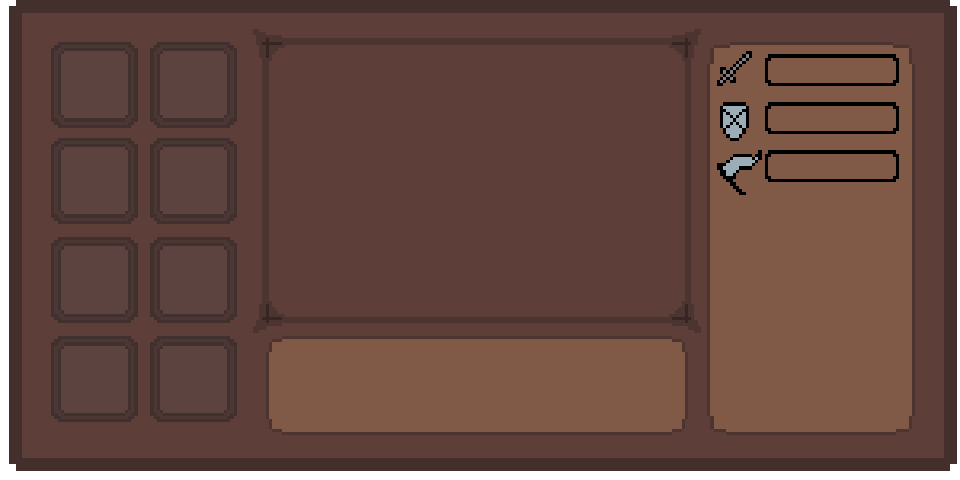
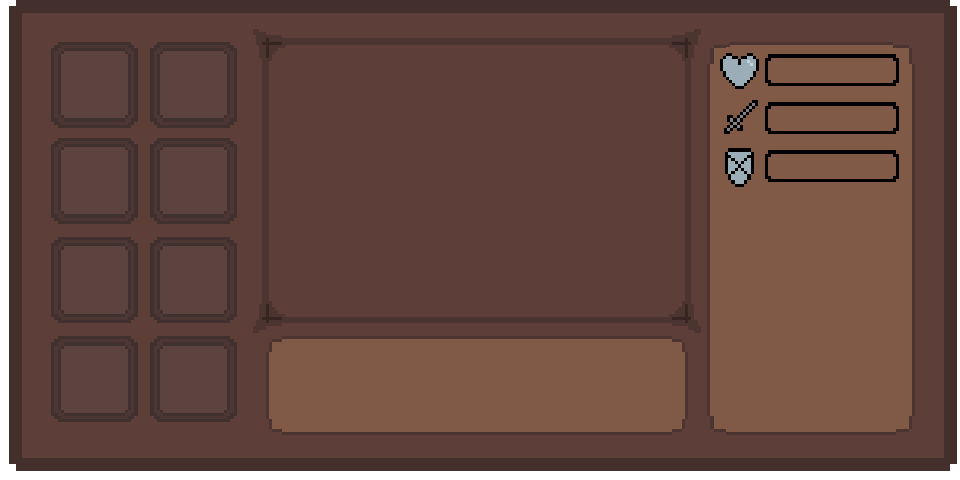
Бета тест инвентаря в бою, описание предметов

Changed region(s): [[0.75, 0.0938, 0.8125, 0.4062]]

diff --git a/Oslik/GameObjects.h b/Oslik/GameObjects.h
@@ -20,18 +20,16 @@ public:
 
 class Item : public GameObject {
 protected:
-	String name;
-	std::string discription;
+	String name, discription;
 	int coefficient;
 	Texture textureInInventory;
 	Sprite spriteInInventory;
 public:
 	Item(String _name, int _coefficient);
 
-	bool playerIntersection(Player& player);
-	//virtual void examine() = 0;
+	virtual bool playerIntersection(Player &player);
 	virtual void use(Player &player) {};
-	virtual void examine() {};
+	virtual String examine();
 	
 	Sprite getSpriteInInventory();
 };
@@ -44,19 +42,19 @@ public:
 
 class Helmet : public Equipment {
 public:
-	Helmet(String _name, int _coefficient) : Equipment(_name, _coefficient) {};
+	Helmet(String _name, int _coefficient) : Equipment(_name, _coefficient) { discription = "Gives 3 points of armor while equiped."; };
 	void putOn();
 };
 
 class Saddle : public Equipment {
 public:
-	Saddle(String _name, int _coefficient) : Equipment(_name, _coefficient) {};
+	Saddle(String _name, int _coefficient) : Equipment(_name, _coefficient) { discription = "Gives 5 points of armor while equiped."; };
 	void putOn();
 };
 
 class Horseshoe : public Equipment {
 public:
-	Horseshoe(String _name, int _coefficient) : Equipment(_name, _coefficient) {};
+	Horseshoe(String _name, int _coefficient) : Equipment(_name, _coefficient) { discription = "Gives 2 points of armor while equiped."; };
 	void putOn();
 };
 
@@ -68,23 +66,22 @@ public:
 
 class HealthPotion : public Consumable {
 private:
-	
+
 public: 
-	HealthPotion(String _name, int _coefficient) : Consumable(_name, _coefficient) {};
-	//void consume(Player &player);
+	HealthPotion(String _name, int _coefficient) : Consumable(_name, _coefficient) { discription = "Heals 10 HP."; };
 	void use(Player &player);
 };
 
 class StrengthPotion : public Consumable {
 public:
-	StrengthPotion(String _name, int _coefficient) : Consumable(_name, _coefficient) {};
-	void consume();
+	StrengthPotion(String _name, int _coefficient) : Consumable(_name, _coefficient) { discription = "Increases strenght by one."; };
+	void use(Player &player);
 };
 
 class ResistancePotion : public Consumable {
 public:
-	ResistancePotion(String _name, int _coefficient) : Consumable(_name, _coefficient) {};
-	void consume();
+	ResistancePotion(String _name, int _coefficient) : Consumable(_name, _coefficient) { discription = "Increases armor by one."; };
+	void use(Player &player);
 };
 
 class Cell {
@@ -96,29 +93,6 @@ public:
 	int count = 0;
 
 	void drop();
-};
-
-class Inventory : public GameObject {
-public:
-	Cell cells[8];
-
-	RectangleShape attackBar, hpBar;
-	FloatRect buttons[3];
-	Vector2f mousePosition;
-	int quantityConsum, quantityEquip, openedCell, activeButton;
-	
-
-	Texture menuTexture;
-	Sprite menuSprite, buttonSprite;
-
-	bool isClicked = false;
-public:
-	Inventory();
-	void draw(RenderWindow &window);
-	void input(Player &player);
-	void addItem(Item &item);
-	void menuLogic(Player &player);
-	void update(Vector2f viewCenter);
 };
 
 class Character : public GameObject {
@@ -135,6 +109,31 @@ public:
 	void setAnimationTexture();
 	void attack();
 	characteristics getStats();
+};
+
+class Inventory : public GameObject {
+public:
+	Cell cells[8];
+
+	RectangleShape inventoryBars[3];
+	FloatRect buttons[3];
+	Vector2f mousePosition;
+	int quantityConsum, quantityEquip, openedCell, activeButton;
+	
+
+	Texture menuTexture;
+	Sprite menuSprite, buttonSprite;
+	Font font;
+	Text text;
+	
+	bool isClicked = false, isExamine = false;
+public:
+	Inventory();
+	void draw(RenderWindow &window);
+	void input(Player &player);
+	void addItem(Item &item);
+	void menuLogic(Player &player);
+	void update(Character::characteristics stats, Vector2f viewCenter);
 };
 
 class Player : public Character {
@@ -156,7 +155,7 @@ public:
 	void gravity(float time);
 	void collisionX();
 	void collisionY();
-	void openInventory(RenderWindow& window);
+	void openInventory(RenderWindow& window, Vector2f viewCenter);
 };
 
 class Friend : public GameObject {

diff --git a/Oslik/Battle.cpp b/Oslik/Battle.cpp
@@ -261,6 +261,11 @@ void Battle::actionProcessing() {
 			isBlocked = true;
 			break;
 		case 2:
+			window->setMouseCursorVisible(true);
+			while (!Keyboard::isKeyPressed(Keyboard::Escape)) {
+				player->openInventory(*window, battleView.getCenter());
+			}
+			window->setMouseCursorVisible(false);
 			isAction = true;
 			break;
 		case 3:
@@ -270,7 +275,7 @@ void Battle::actionProcessing() {
 	}
 }
 
-void Battle::defenceUp(Character& defender) {
+void Battle::defenceUp(Character &defender) {
 	defender.stats.DEF *= 2;
 }
 

diff --git a/Oslik/Engine.cpp b/Oslik/Engine.cpp
@@ -6,6 +6,7 @@ Engine::Engine() {
 
 	window.create(VideoMode(resolution.x, resolution.y), "OslikTheGame v0.9", Style::Fullscreen);
 	window.setFramerateLimit(120);
+	window.setFramerateLimit(120);
 
 	view.reset(FloatRect(0, 0, resolution.x, resolution.y));
 }
@@ -82,7 +83,7 @@ void Engine::draw() {
 void Engine::drawInventory() {
 	if (inventoryIsOpen) {
 		player.inventory.draw(window);
-		player.inventory.update(view.getCenter());
+		player.inventory.update(player.getStats(), view.getCenter());
 	}
 }
 
